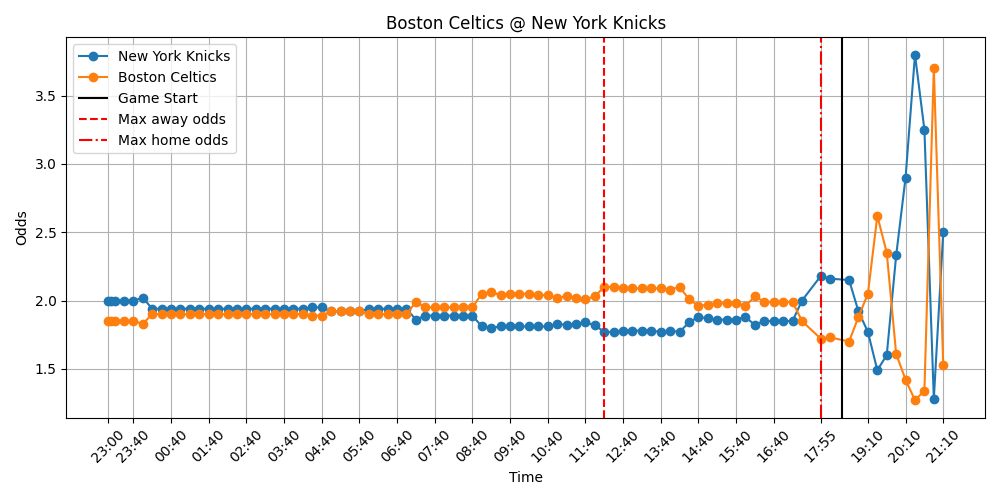
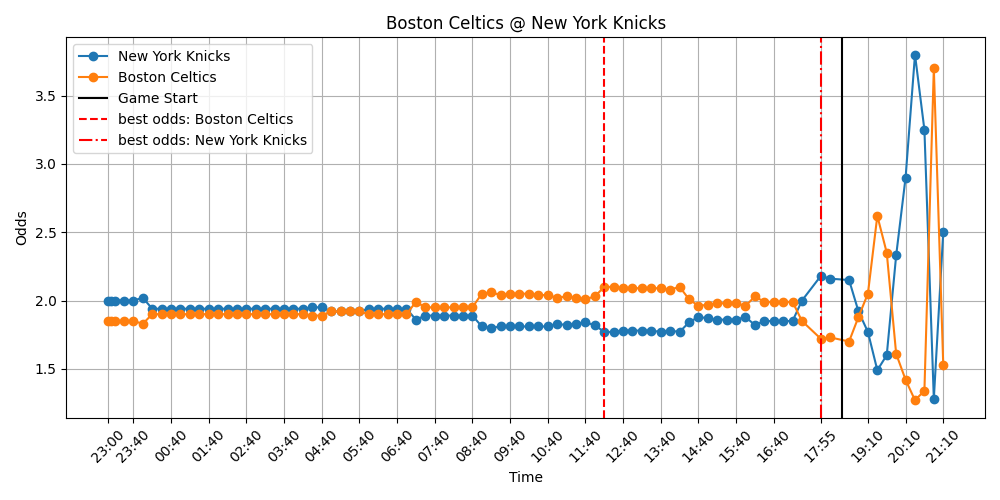
changed png

Changed region(s): [[0.124, 0.21, 0.31, 0.3]]

diff --git a/.ipynb_checkpoints/data_processing-checkpoint.py b/.ipynb_checkpoints/data_processing-checkpoint.py
@@ -184,8 +184,8 @@ def plot_odds_data(game_info, game_odds, start_time, away_max_dt, home_max_dt):
     plt.axvline(x=start_time, color='k', linestyle='-', label='Game Start')
     
     # Plot vertical lines for maximum Away and Home odds times
-    plt.axvline(x=away_max_dt, color='r', linestyle='--', label='Max away odds')
-    plt.axvline(x=home_max_dt, color='r', linestyle='-.', label='Max home odds')
+    plt.axvline(x=away_max_dt, color='r', linestyle='--', label=f'best odds: {away_team}')
+    plt.axvline(x=home_max_dt, color='r', linestyle='-.', label=f'best odds: {home_team}')
 
     # Add legend for the vertical lines
     plt.legend()

diff --git a/data_processing.py b/data_processing.py
@@ -184,8 +184,8 @@ def plot_odds_data(game_info, game_odds, start_time, away_max_dt, home_max_dt):
     plt.axvline(x=start_time, color='k', linestyle='-', label='Game Start')
     
     # Plot vertical lines for maximum Away and Home odds times
-    plt.axvline(x=away_max_dt, color='r', linestyle='--', label='Max away odds')
-    plt.axvline(x=home_max_dt, color='r', linestyle='-.', label='Max home odds')
+    plt.axvline(x=away_max_dt, color='r', linestyle='--', label=f'best odds: {away_team}')
+    plt.axvline(x=home_max_dt, color='r', linestyle='-.', label=f'best odds: {home_team}')
 
     # Add legend for the vertical lines
     plt.legend()
